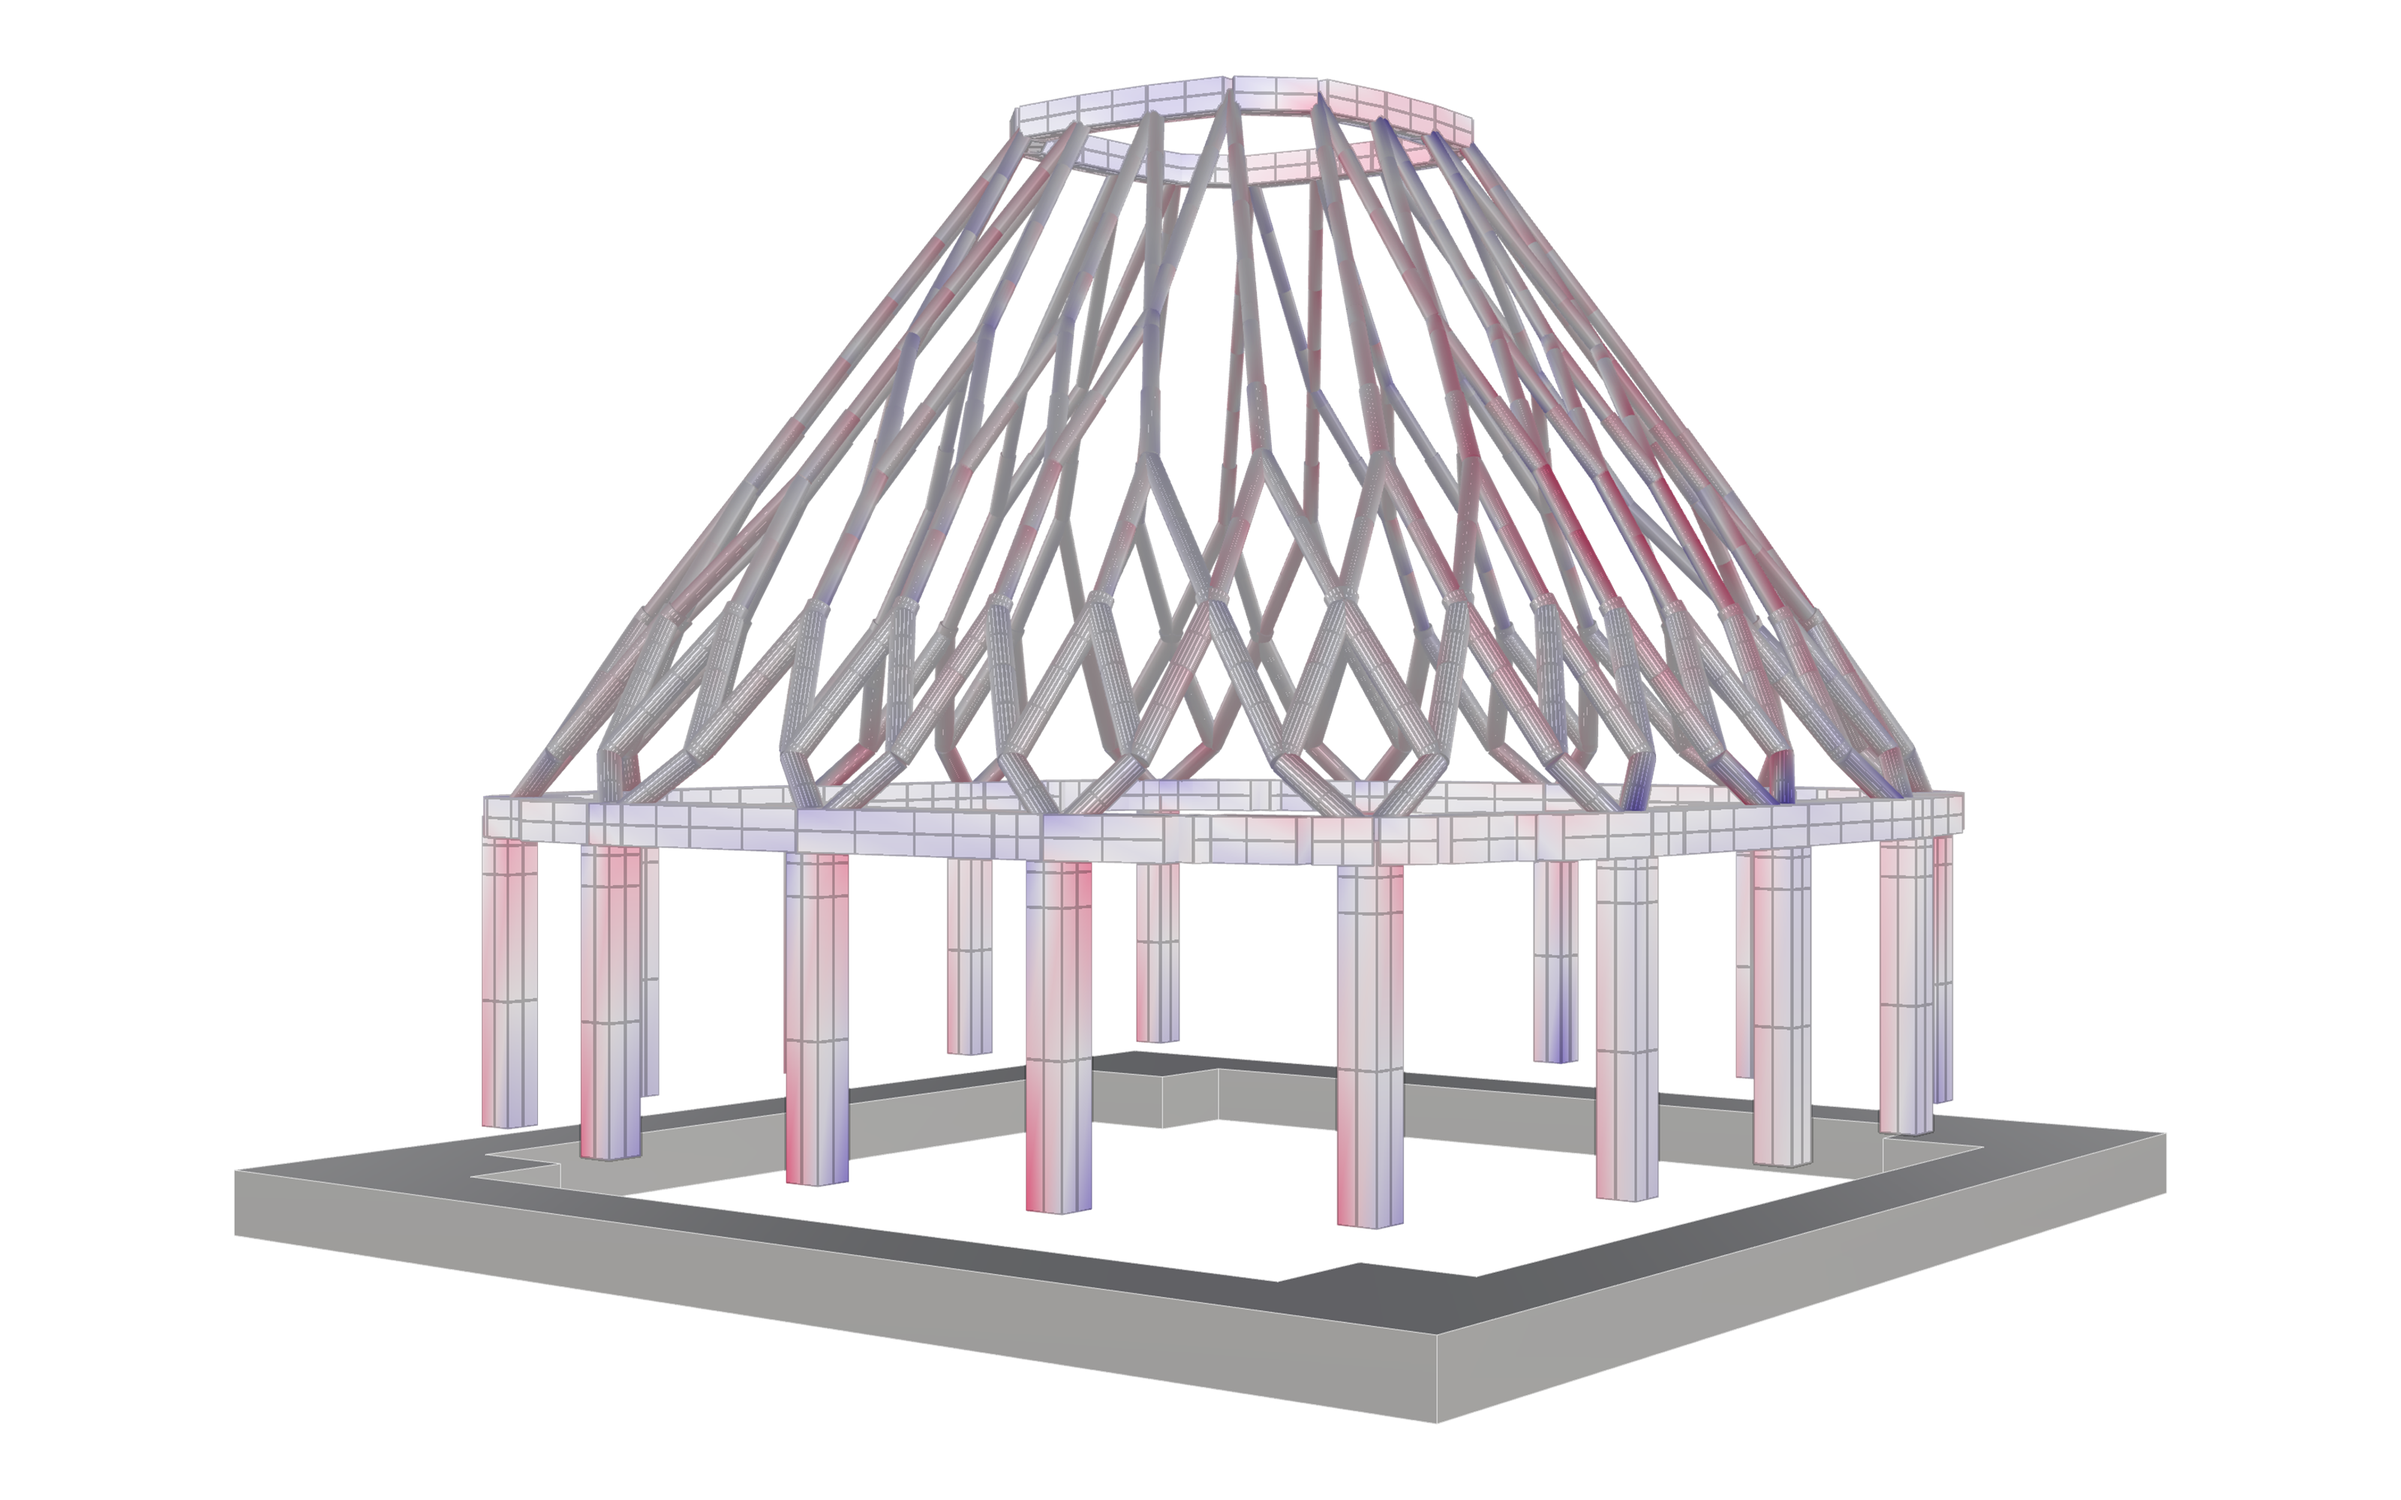
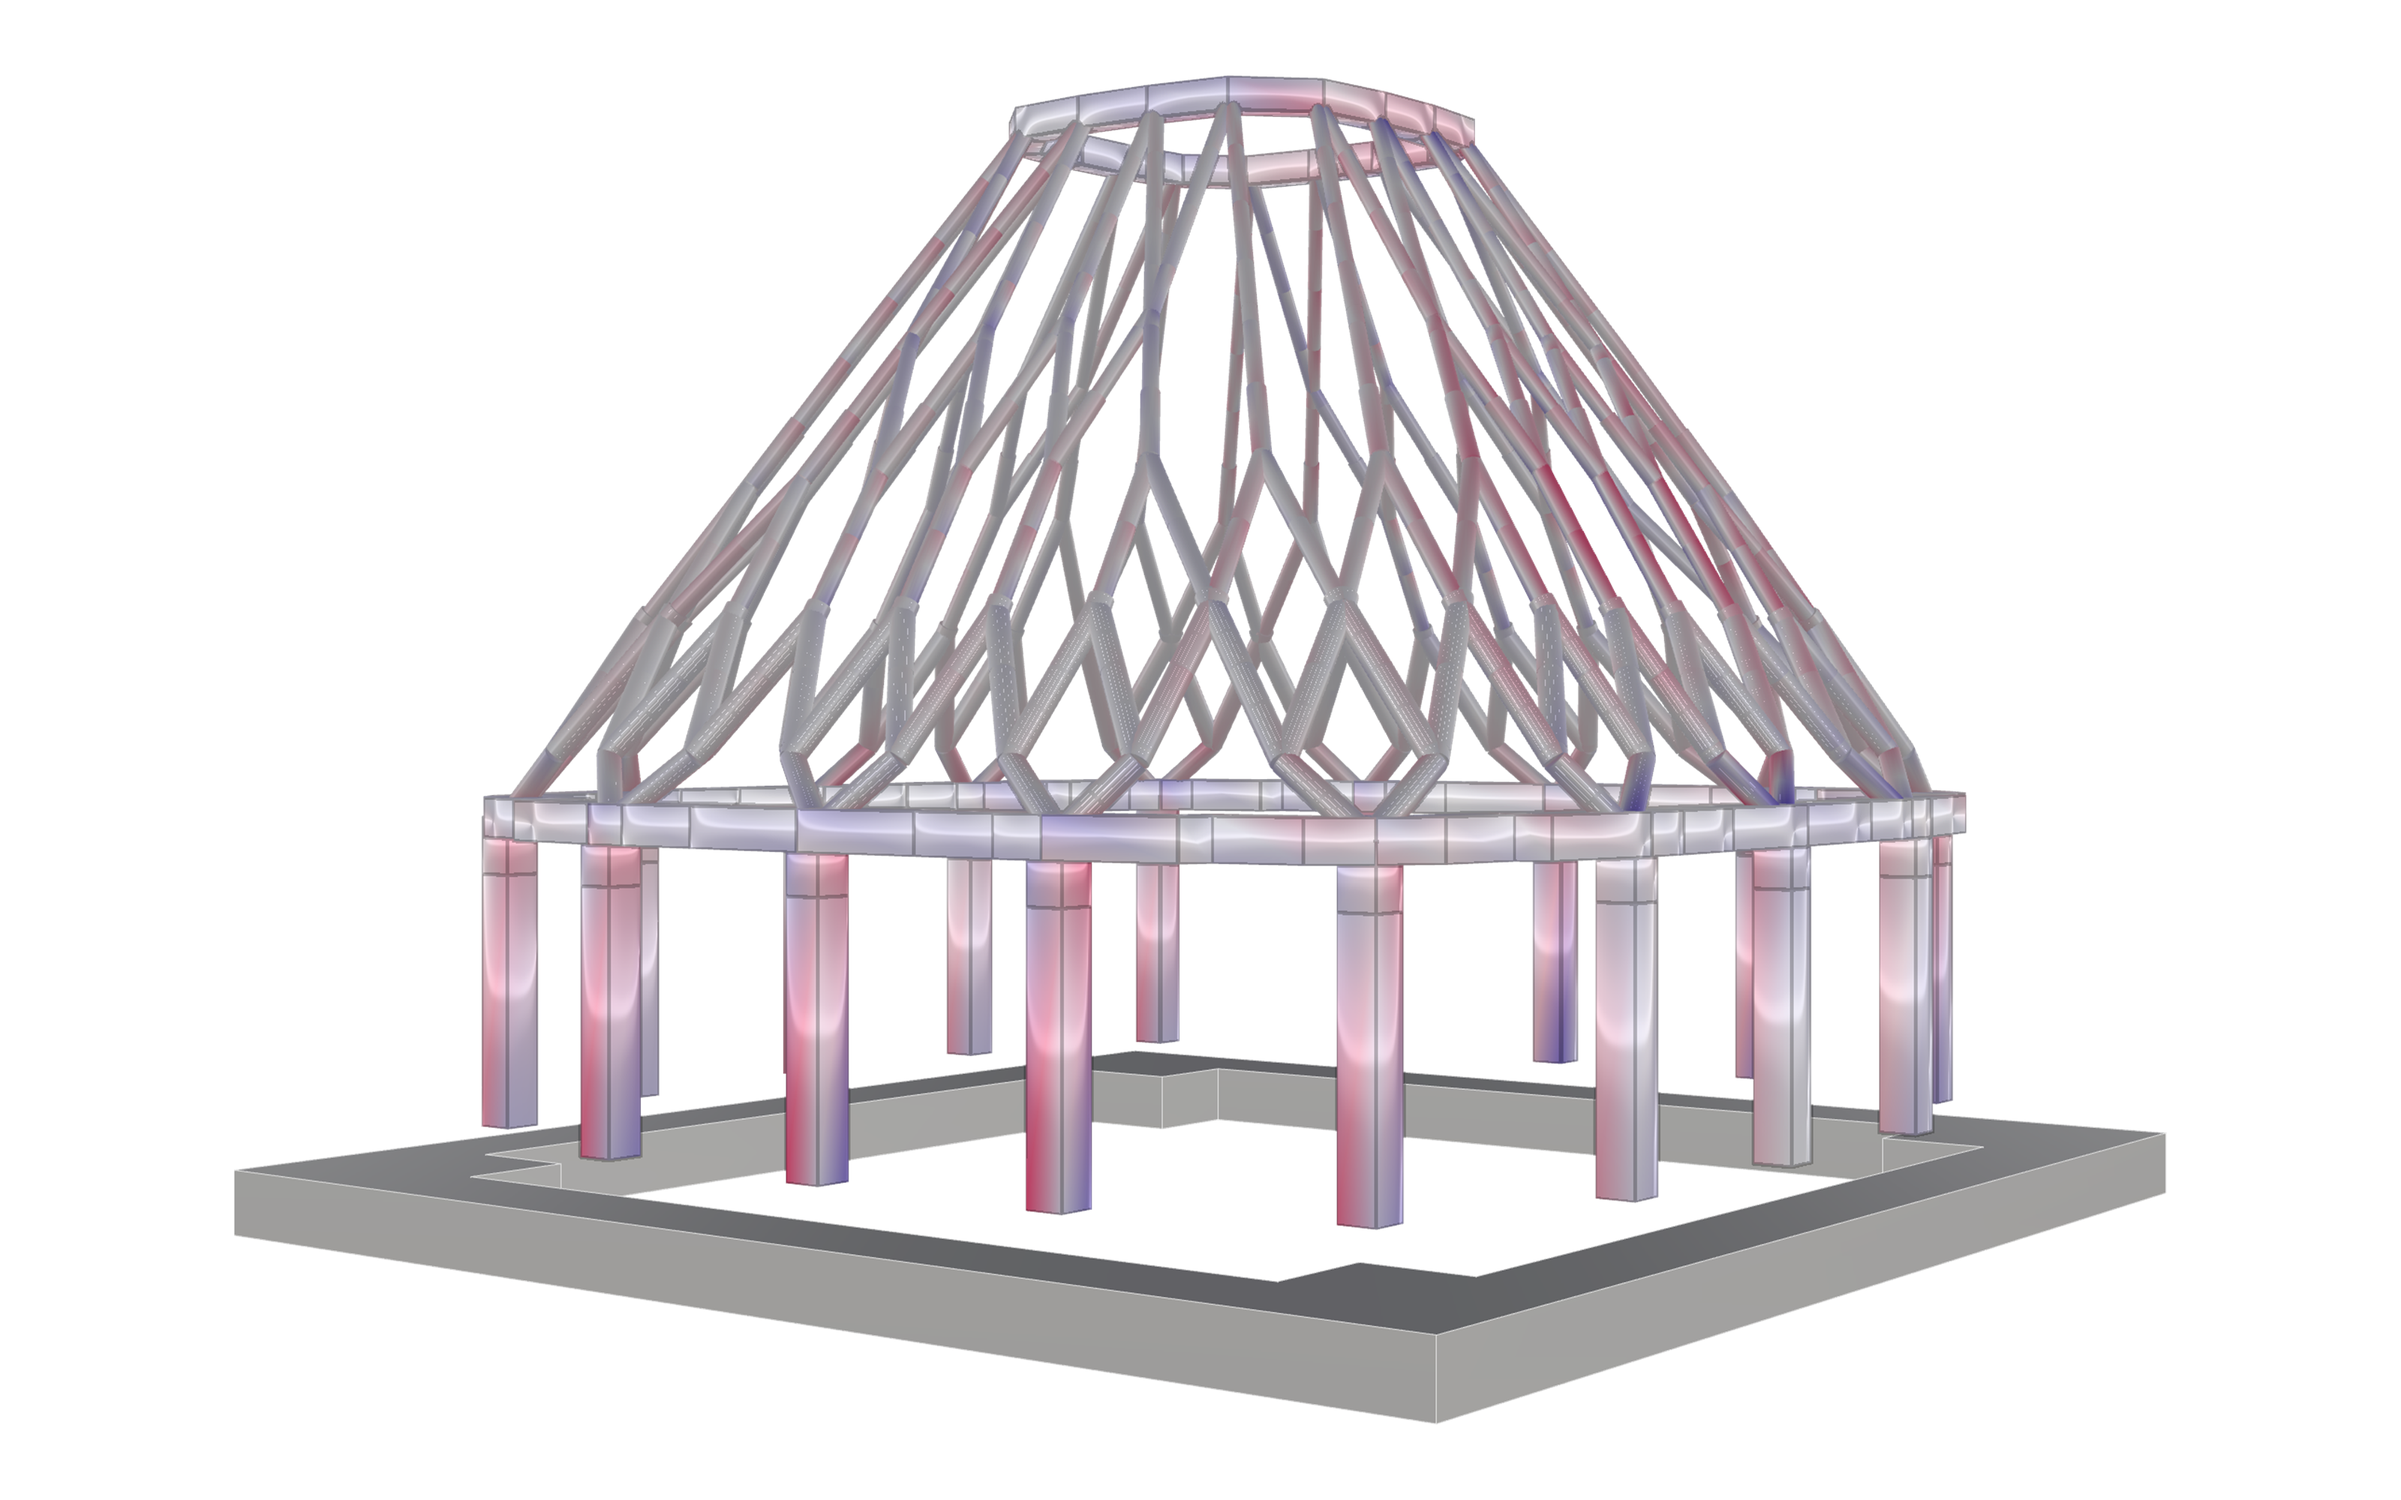
Karamba-model renders: mitred base and crown rings, columns on plan axes (no BeamView notches)

diff --git a/details/karamba/2026-11-23/k_mitre_rings.py b/details/karamba/2026-11-23/k_mitre_rings.py
@@ -1,0 +1,80 @@
+"""Clean ring / crown / arch drawing for the Karamba-model renders (Gonzalo 2026-11-24: 'why is the ring like this?').
+Karamba's BeamView draws every straight ring segment as its own box cut square at the nodes (V-notches between
+segments) and the short 'arches between columns' with their own sloped boxes (loose stepped blocks). Here those three
+groups are left out of the BeamView and drawn instead from the same Karamba model and the same D2 forces:
+- ring and crown: one box per segment, section upright (local z = global Z, as in Karamba), ends cut on the bisector
+  plane with the neighbouring segment, so the polygon closes flush with no notch or overlap;
+- columns (two Karamba bars each: 0 to +1.95 and +1.95 to the ring axis +2.40): square boxes on the plan axes (Karamba's
+  local axes for vertical bars), so the top stub no longer sticks out of the ring rotated. (There are no 'arch' bars in
+  the assembled model: the offset blocks under the ring were these column stubs drawn by the BeamView.)
+- colour at every section corner = Karamba's axial-stress colour of sigma = N/A + My z / Iy - Mz y / Iz at that end
+  (Karamba sign, compression negative), on the same fixed legend as the BeamView (+-0.4 / +-0.7 kN/cm2)."""
+import os, json, math, System, Rhino
+import Rhino.Geometry as G
+HERE = r"C:\Users\gonza\Documents\GitHub\Amor_Mundi\details\karamba\2026-11-23"
+STOPS = [(254, 0, 73), (254, 53, 111), (254, 102, 146), (254, 156, 184), (254, 205, 219), (250, 250, 253),
+         (214, 208, 244), (174, 162, 233), (138, 120, 223), (97, 74, 212), (66, 38, 204)]   # Karamba gradient, -lim .. +lim
+SECT = {"15x10": {"ring": (0.40, 0.40), "crown": (0.25, 0.25), "column": (0.36, 0.36)},
+        "10x10": {"ring": (0.40, 0.30), "crown": (0.25, 0.25), "column": (0.30, 0.30)}}   # (width y, height z) m, read from the Karamba cross-sections
+
+
+def kcol(s, lim):
+    t = max(-1.0, min(1.0, s / lim)); f = (t + 1) / 2 * (len(STOPS) - 1); i = min(int(f), len(STOPS) - 2); w = f - i
+    a, b = STOPS[i], STOPS[i + 1]
+    return System.Drawing.Color.FromArgb(*[int(round(a[k] + (b[k] - a[k]) * w)) for k in range(3)])
+
+
+def axes(pa, pb):
+    x = pb - pa; x.Unitize()
+    if abs(x.Z) > 0.999:                       # vertical (columns): Karamba takes local z along global -X
+        z = -G.Vector3d.XAxis
+    else:
+        z = G.Vector3d.ZAxis - x * x.Z; z.Unitize()
+    y = G.Vector3d.CrossProduct(z, x)
+    return x, y, z
+
+
+def build(doc, roof, lc, lim, layer_index, sect=None):
+    D = json.load(open(os.path.join(HERE, "forces-%s.json" % roof)))
+    N, E, F = D["nodes"], D["els"], D["forces"][lc]
+    S = sect or SECT[roof]
+    groups = {g: [i for i, e in enumerate(E) if e[0] == g] for g in ("ring", "crown", "column")}
+    att = Rhino.DocObjects.ObjectAttributes(); att.LayerIndex = layer_index
+    count = 0
+    for g, ids in groups.items():
+        b, h = S[g]; A = b * h; Iy = b * h ** 3 / 12; Iz = h * b ** 3 / 12
+        at = {}
+        for i in ids:
+            for n in E[i][1:3]: at.setdefault(n, []).append(i)
+        for i in ids:
+            _, na, nb = E[i]; pa, pb = G.Point3d(*N[na]), G.Point3d(*N[nb])
+            x, y, z = axes(pa, pb); L = pa.DistanceTo(pb)
+            ends = []
+            for t, (n, p, xin) in enumerate(((na, pa, x), (nb, pb, -x))):
+                corners = [(-b / 2, -h / 2), (b / 2, -h / 2), (b / 2, h / 2), (-b / 2, h / 2)]
+                nbrs = [j for j in at.get(n, []) if j != i] if g in ("ring", "crown") else []
+                pts = []
+                for (cy, cz) in corners:
+                    p0 = p + y * cy + z * cz
+                    if len(nbrs) == 1:
+                        j = nbrs[0]; o = E[j][1] if E[j][2] == n else E[j][2]
+                        xj = G.Point3d(*N[o]) - p; xj.Unitize()
+                        m = xin - xj; m.Unitize()
+                        den = xin * m
+                        tt = -((p0 - p) * m) / den if abs(den) > 1e-6 else 0.0
+                        pts.append(p0 + xin * tt)
+                    else:
+                        ext = 0.0
+                        pts.append(p0 - xin * ext)
+                Nn = F["N"][2 * i + t]; My = F["My"][2 * i + t]; Mz = F["Mz"][2 * i + t]
+                cols = [kcol((Nn / A + My * cz / Iy - Mz * cy / Iz) / 10000.0, lim) for (cy, cz) in corners]
+                ends.append((pts, cols))
+            m = G.Mesh()
+            for pts, cols in ends:
+                for q, c in zip(pts, cols): m.Vertices.Add(q); m.VertexColors.Add(c)
+            for k in range(4):
+                k2 = (k + 1) % 4; m.Faces.AddFace(k, k2, 4 + k2, 4 + k)
+            m.Faces.AddFace(3, 2, 1, 0); m.Faces.AddFace(4, 5, 6, 7)
+            m.Normals.ComputeNormals(); m.Compact()
+            doc.Objects.AddMesh(m, att); count += 1
+    return count
